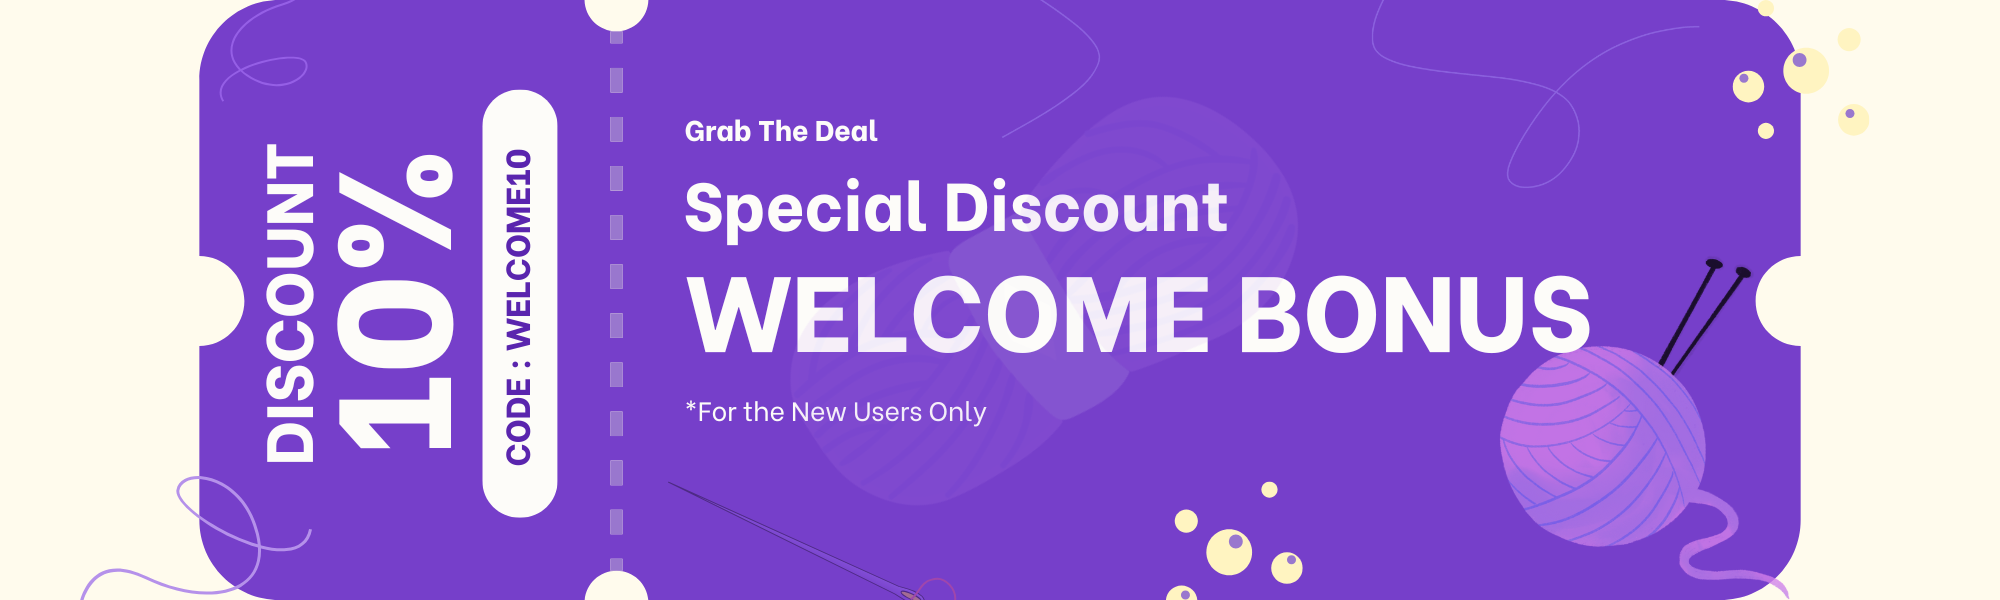
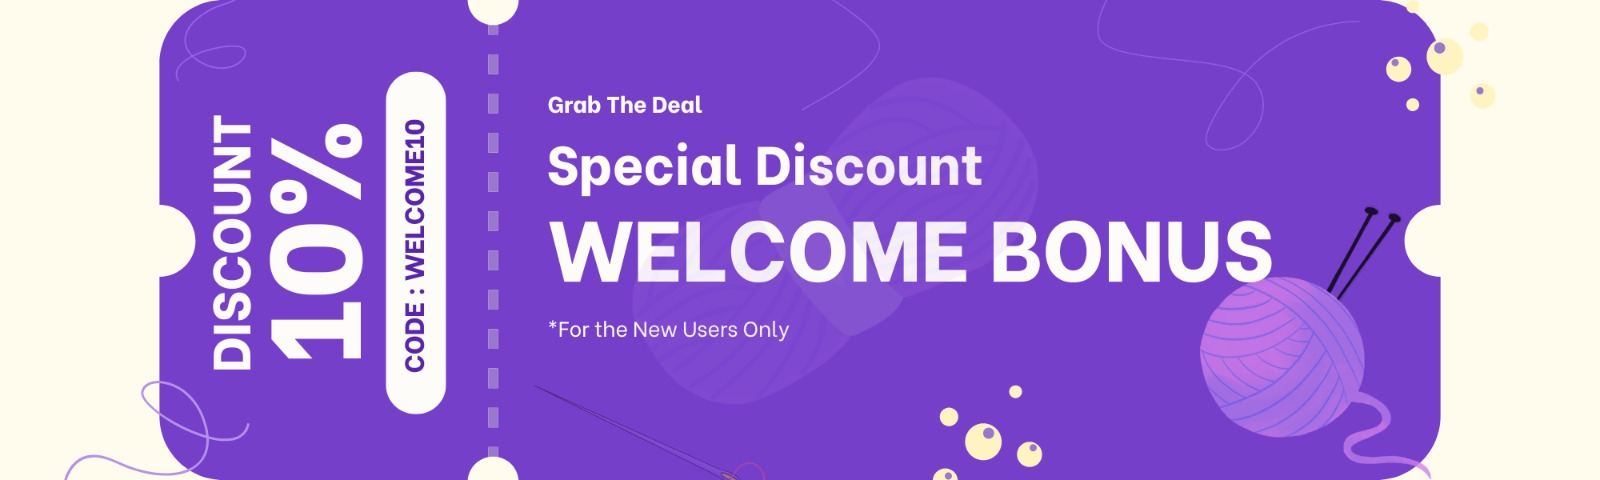
Auth Pages changes

Changed region(s): [[0.3438, 0.2188, 0.4062, 0.25], [0.5938, 0.875, 0.625, 0.9062]]

diff --git a/src/Pages/Authnticate/Signup/SignupPage.jsx b/src/Pages/Authnticate/Signup/SignupPage.jsx
@@ -116,12 +116,12 @@ const SignupPage = ({ togglePage, isLogin }) => {
           Create your account to get started
         </p>
 
-        <form onSubmit={handleSubmit} className="space-y-4">
+        <form onSubmit={handleSubmit} className="space-y-2">
           <div className="flex flex-col sm:flex-row gap-3">
             <div className="flex flex-col w-full">
               <label className="">First Name</label>
               <input
-                className="login-input rounded-full text-black px-4 py-2"
+                className="login-input rounded-full text-black px-4 py-1"
                 placeholder="First name"
                 name="firstName"
                 value={formData.firstName}
@@ -133,7 +133,7 @@ const SignupPage = ({ togglePage, isLogin }) => {
             <div className="flex flex-col w-full">
               <label className="">Last Name</label>
               <input
-                className="login-input rounded-full text-black px-4 py-2"
+                className="login-input rounded-full text-black px-4 py-1"
                 placeholder="Last name"
                 name="lastName"
                 value={formData.lastName}
@@ -146,7 +146,7 @@ const SignupPage = ({ togglePage, isLogin }) => {
             <div className="flex flex-col w-full">
               <label className="">Email</label>
               <input
-                className="login-input rounded-full text-black px-4 py-2"
+                className="login-input rounded-full text-black px-4 py-1"
                 placeholder="Email"
                 name="email"
                 value={formData.email}
@@ -159,7 +159,7 @@ const SignupPage = ({ togglePage, isLogin }) => {
               <label className="">Password</label>
               <input
                 type="password"
-                className="login-input rounded-full text-black px-4 py-2"
+                className="login-input rounded-full text-black px-4 py-1"
                 placeholder="Password"
                 name="password"
                 value={formData.password}
@@ -173,7 +173,7 @@ const SignupPage = ({ togglePage, isLogin }) => {
             <div className="flex flex-col w-full">
               <label className="">Phone</label>
               <input
-                className="login-input rounded-full text-black px-4 py-2"
+                className="login-input rounded-full text-black px-4 py-1"
                 placeholder="Phone number"
                 name="phoneNumber"
                 value={formData.phoneNumber}
@@ -184,7 +184,7 @@ const SignupPage = ({ togglePage, isLogin }) => {
             <div className="flex flex-col w-full">
               <label className="">WhatsApp</label>
               <input
-                className="login-input rounded-full text-black px-4 py-2"
+                className="login-input rounded-full text-black px-4 py-1"
                 placeholder="WhatsApp number"
                 name="whatsappNumber"
                 value={formData.whatsappNumber}
@@ -197,7 +197,7 @@ const SignupPage = ({ togglePage, isLogin }) => {
             <div className="flex flex-col w-full">
               <label className="">Company</label>
               <input
-                className="login-input rounded-full text-black px-4 py-2"
+                className="login-input rounded-full text-black px-4 py-1"
                 placeholder="Company"
                 name="company"
                 value={formData.company}
@@ -208,7 +208,7 @@ const SignupPage = ({ togglePage, isLogin }) => {
             <div className="flex flex-col w-full">
               <label className="">GST Number</label>
               <input
-                className="login-input rounded-full text-black px-4 py-2"
+                className="login-input rounded-full text-black px-4 py-1"
                 placeholder="GST number"
                 name="gstNumber"
                 value={formData.gstNumber}
@@ -220,7 +220,7 @@ const SignupPage = ({ togglePage, isLogin }) => {
           
           <button
                         type="submit"
-                        className="w-full bg-purple-700 text-white rounded-full py-2 font-medium"
+                        className="w-full bg-purple-700 text-white mt-4 rounded-full py-1 font-medium"
                         onClick={() => navigate("/otp")}
                     >
                         Get OTP

diff --git a/src/Pages/Authnticate/Login/LoginPage.jsx b/src/Pages/Authnticate/Login/LoginPage.jsx
@@ -70,7 +70,7 @@ const LoginPage = ({ togglePage, setAuthStatus }) => {
                 </div>
 
                 <p className="text-center text-gray-300 text-l sm:text-l mb-6 px-2">
-                    Lorem Ipsum is simply dummy text of the printing and typesetting industry.
+                Log in to continue your yarn journey, explore colors & continue shopping.
                 </p>
 
                 <form onSubmit={handleLogin}>
@@ -78,32 +78,34 @@ const LoginPage = ({ togglePage, setAuthStatus }) => {
                     <input
                         type="text"
                         placeholder="Enter your username"
-                        className="w-full px-4 py-2 rounded-full mb-4 text-black focus:outline-none"
+                        className="w-full px-4 py-1 mb-2 text-left align-center rounded-full text-black focus:outline-none"
                         value={username}
                         onChange={(e) => setUsername(e.target.value)}
                     />
 
                     <label className="block text-l mb-1">Password</label>
                     <div className="relative">
-                        <input
-                            type={showPassword ? "text" : "password"}
-                            placeholder="Enter your password"
-                            className="w-full px-4 py-2 rounded-full mb-3 text-black focus:outline-none pr-10"
-                            value={password}
-                            onChange={(e) => setPassword(e.target.value)}
-                        />
-                        <button
-                            type="button"
-                            className="absolute right-3 top-2.5 text-gray-500"
-                            onClick={() => setShowPassword(!showPassword)}
-                        >
-                            {showPassword ? <EyeOff size={20} /> : <Eye size={20} />}
-                        </button>
+                    <input
+    type={showPassword ? "text" : "password"}
+    placeholder="Enter your password"
+    className="w-full px-4 py-1 rounded-full mb-2 text-left text-black focus:outline-none pr-10"
+    value={password}
+    onChange={(e) => setPassword(e.target.value)}
+  />
+  <button
+    type="button"
+    className="absolute right-3 top-[45%] -translate-y-1/2 text-gray-500"
+    onClick={() => setShowPassword(!showPassword)}
+  >
+    <div className="flex items-center justify-center h-5 w-5">
+      {showPassword ? <EyeOff size={22} /> : <Eye size={22} />}
+    </div>
+  </button>
                     </div>
 
                     {error && <p className="text-red-400 text-sm mb-2">{error}</p>}
 
-                    <div className="flex flex-row justify-between items-center text-sm text-gray-300 mb-6">
+                    <div className="flex flex-row justify-between items-center text-sm text-gray-300 mb-4">
                         <label className="flex items-center">
                             <input type="checkbox" className="mr-2" />
                             Remember me
@@ -115,12 +117,12 @@ const LoginPage = ({ togglePage, setAuthStatus }) => {
 
                     <button
                         type="submit"
-                        className="w-full bg-purple-800 text-white rounded-full py-2 font-medium"
+                        className="w-full bg-purple-800 text-white rounded-full py-1 font-medium"
                     >
                         Login
                     </button>
 
-                    <div className="text-center text-xs my-4 text-gray-300">Or login with</div>
+                    <div className="text-center text-xs my-2 text-gray-300">Or login with</div>
 
                     <div className="flex flex-row justify-center items-center gap-2 lg:gap-4">
                         <button className="flex items-center gap-2 bg-white text-black px-2 lg:px-4 py-2 rounded-full text-sm w-3/5 justify-center">

diff --git a/src/Pages/Authnticate/Verify/VerifyCode.jsx b/src/Pages/Authnticate/Verify/VerifyCode.jsx
@@ -49,30 +49,30 @@ const VerifyCode = () => {
                     <input
                         type="text"
                         placeholder="Enter valid verification code"
-                        className="w-full px-4 py-2 rounded-full mb-4 text-black focus:outline-none"
+                        className="w-full px-4 py-1 rounded-full mb-2 text-black focus:outline-none"
                         value={code}
                         onChange={(e) => setCode(e.target.value)}
                     />
 
-                    <p className="text-sm text-gray-300 mb-4">
+                    <p className="text-sm text-gray-300 mb-2">
                         Didn’t receive a code? <span className="text-white underline cursor-pointer">Resend</span>
                     </p>
 
                     <button
                         type="submit"
-                        className="w-full bg-purple-700 text-white rounded-full py-2 font-medium"
+                        className="w-full bg-purple-700 text-white rounded-full py-1 font-medium"
                         onClick={() => navigate("/resetpassword")}
                     >
                         Verify
                     </button>
 
-                    {message && <p className="text-green-400 text-sm mt-4">{message}</p>}
+                    {message && <p className="text-green-400 text-sm mt-2">{message}</p>}
                 </form>
 
                 <div className="text-center text-xs my-4 text-gray-300">Or login with</div>
 
                 <div className="flex flex-row justify-center items-center gap-2">
-                    <button className="flex items-center gap-2 bg-white text-black px-4 py-2 rounded-full text-sm">
+                    <button className="flex items-center gap-2 bg-white text-black px-4 py-1 rounded-full text-sm">
                         <img
                             src="https://www.svgrepo.com/show/475656/google-color.svg"
                             alt="Google"

diff --git a/src/Components/OrderBox/OrderBox.jsx b/src/Components/OrderBox/OrderBox.jsx
@@ -52,17 +52,27 @@ const OrderBox = ({order}) => {
 
         </div>
 
-        <div className='col-span-9 md:col-span-1 flex items-center justify-content-end'>
-        <button 
-        onClick={(e)=>{
-          e.stopPropagation()
-          handleDownloadInvoice(order.orderId)
-        }}
-        className='flex gap-2 bg-violet-100 text-violet-800 md:px-6 lg:px-8 py-1 rounded items-center'>
-            <span><TbFileInvoice size={20}/></span>
-            <h5 className='text-sm md:text-md'>INVOICE</h5>
-        </button>
-        </div>
+        <div className='col-span-9 md:col-span-1 flex flex-col items-end justify-center gap-1'>
+  <button 
+    onClick={(e) => {
+      e.stopPropagation()
+      handleDownloadInvoice(order.orderId)
+    }}
+    className='flex gap-2 bg-violet-100 text-violet-800 md:px-6 lg:px-8 py-1 rounded items-center'
+  >
+    <span><TbFileInvoice size={20}/></span>
+    <h5 className='text-sm md:text-md'>INVOICE</h5>
+  </button>
+
+  {/* Return Status Tag */}
+  {order.isReturned && (
+    <span className="mt-1 inline-flex items-center gap-2 bg-yellow-100 text-yellow-800 text-sm font-medium px-3 py-1 rounded">
+      <span className="w-2 h-2 bg-yellow-700 rounded-full"></span>
+      Return Requested ({order.totalReturnItems} items)
+    </span>
+  )}
+</div>
+
 
         <div className='flex items-center justify-end hidden md:flex'>
             <span className='text-gray-400'><MdArrowForwardIos size={20}/></span>

diff --git a/src/Pages/Authnticate/ForgotPassword/ForgotPassword.jsx b/src/Pages/Authnticate/ForgotPassword/ForgotPassword.jsx
@@ -49,14 +49,14 @@ const ForgotPasswordPage = () => {
                     <input
                         type="email"
                         placeholder="Enter your Email Address"
-                        className="w-full px-4 py-2 rounded-full mb-4 text-black focus:outline-none"
+                        className="w-full px-4 py-1 rounded-full mb-4 text-black focus:outline-none"
                         value={email}
                         onChange={(e) => setEmail(e.target.value)}
                     />
 
                     <button
                         type="submit"
-                        className="w-full bg-purple-700 text-white rounded-full py-2 font-medium"
+                        className="w-full bg-purple-700 text-white rounded-full py-1 font-medium"
                         onClick={() => navigate("/verifycode")}
                     >
                         Get Code
@@ -65,7 +65,7 @@ const ForgotPasswordPage = () => {
                     {message && <p className="text-green-400 text-sm mt-4">{message}</p>}
                 </form>
 
-                <div className="text-center text-xs my-4 text-gray-300">Or login with</div>
+                <div className="text-center text-xs my-2 text-gray-300">Or login with</div>
 
                 <div className="flex flex-row justify-center items-center gap-2">
                     <button className="flex items-center gap-2 bg-white text-black px-4 py-2 rounded-full text-sm">

diff --git a/src/Pages/Authnticate/ResetPassword/ResetPassword.jsx b/src/Pages/Authnticate/ResetPassword/ResetPassword.jsx
@@ -79,7 +79,7 @@ const ResetPassword = () => {
                     <input
                         type="password"
                         placeholder="Create a strong password"
-                        className="w-full px-4 py-2 rounded-full mb-4 text-black focus:outline-none"
+                        className="w-full px-4 py-1 rounded-full mb-2 text-black focus:outline-none"
                         value={password}
                         onChange={(e) => setPassword(e.target.value)}
                     />
@@ -88,14 +88,14 @@ const ResetPassword = () => {
                     <input
                         type="password"
                         placeholder="Re-enter the password"
-                        className="w-full px-4 py-2 rounded-full mb-4 text-black focus:outline-none"
+                        className="w-full px-4 py-1 rounded-full mb-2 text-black focus:outline-none"
                         value={confirmPassword}
                         onChange={(e) => setConfirmPassword(e.target.value)}
                     />
 
                     <button
                         type="submit"
-                        className="w-full bg-purple-700 text-white rounded-full py-2 font-medium"
+                        className="w-full bg-purple-700 mt-4 text-white rounded-full py-1 font-medium"
                     >
                         Save
                     </button>
